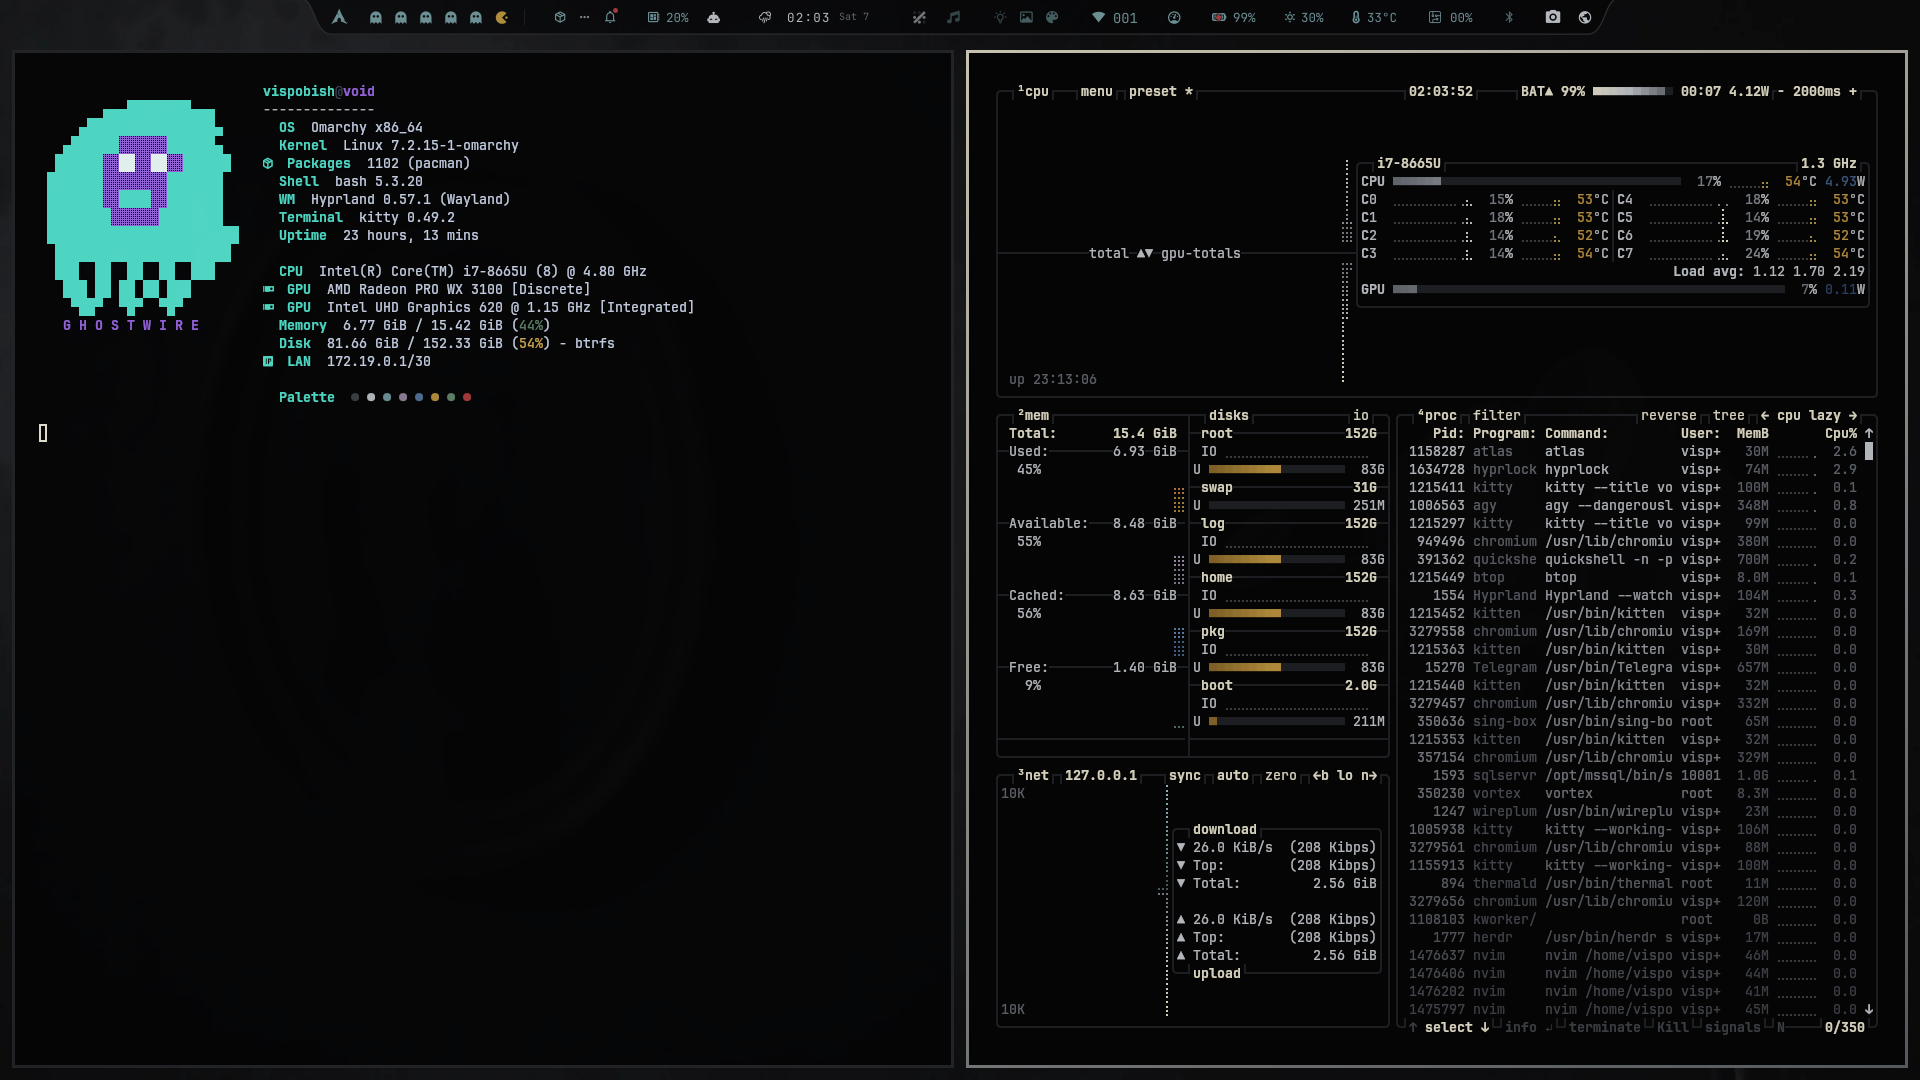
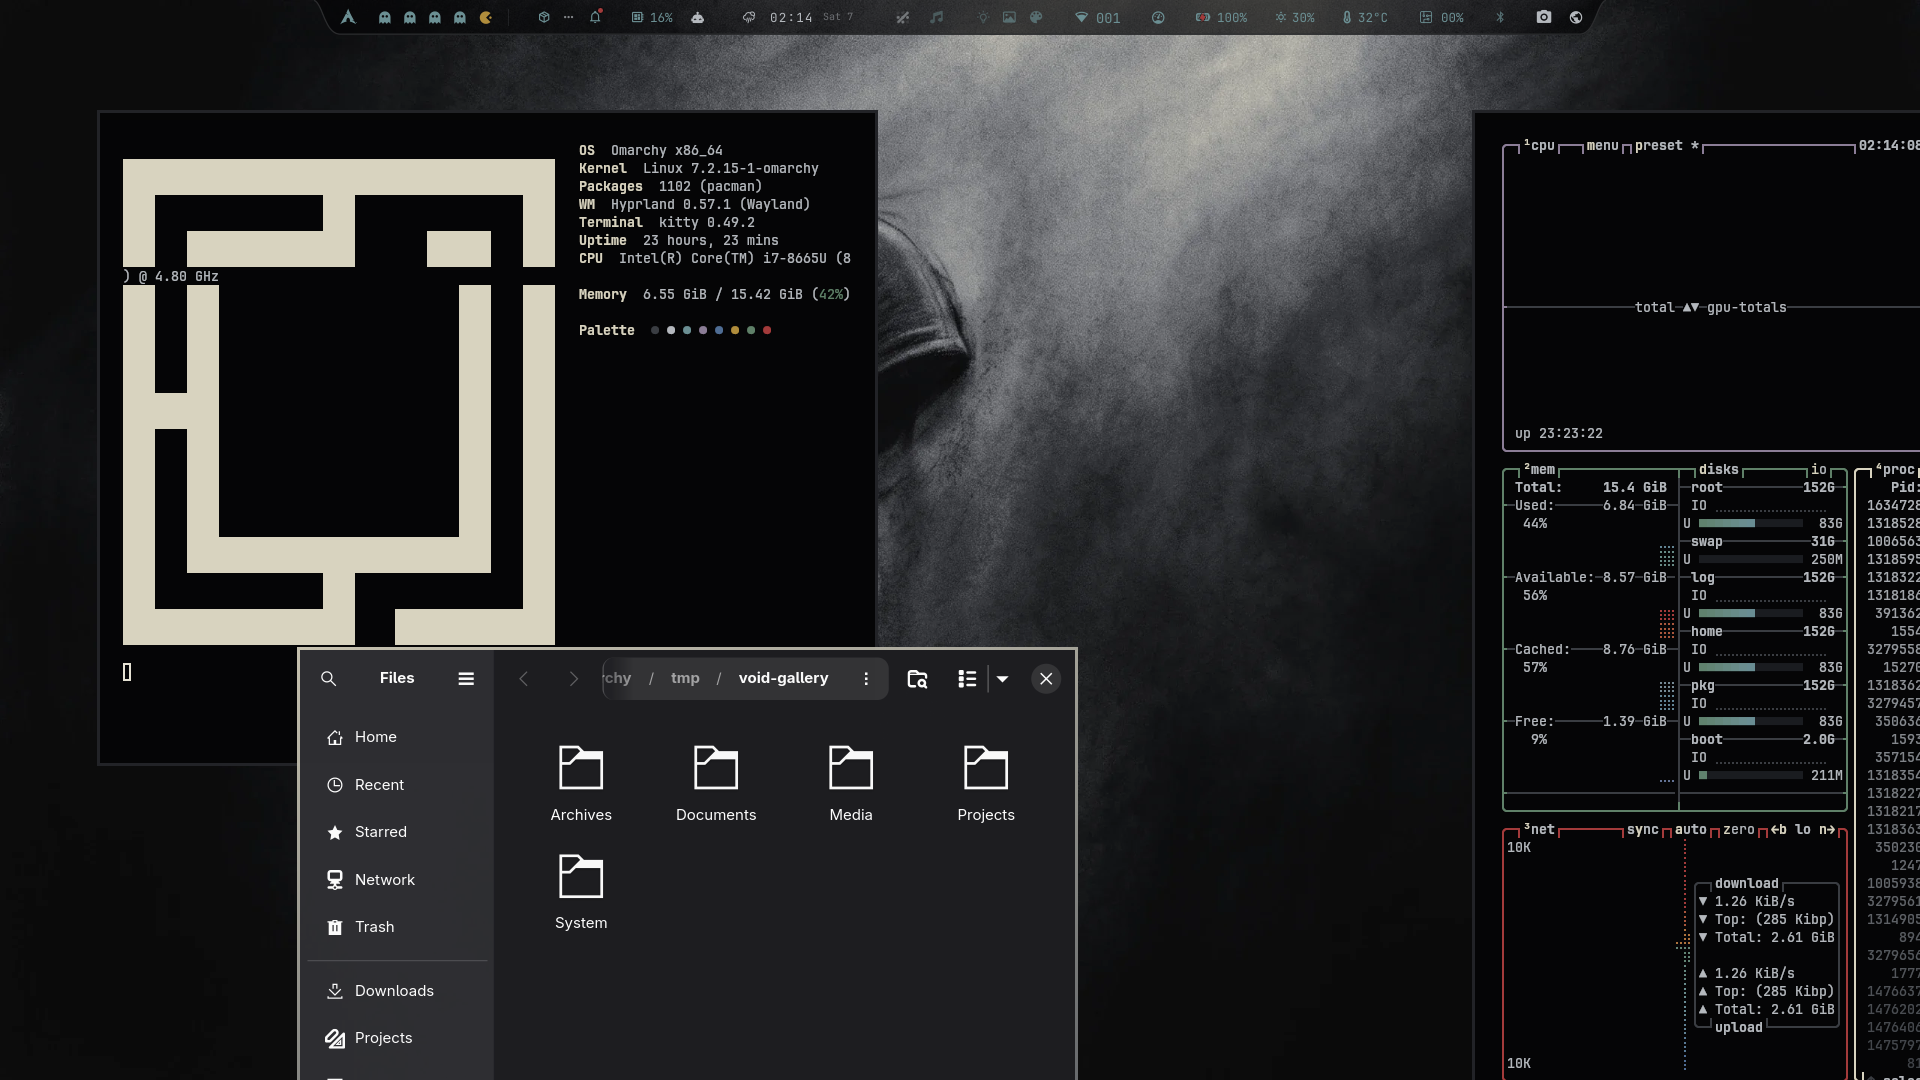
Refactor to official Omarchy theme standard with gallery previews

diff --git a/gtk.css b/gtk.css
@@ -1,0 +1,69 @@
+/* Void — coordinated ultra-dark monochrome surfaces and pale cream accents for GTK 3 / GTK 4 */
+@define-color window_bg_color #050506;
+@define-color window_fg_color #b4b8bd;
+@define-color view_bg_color #050506;
+@define-color view_fg_color #b4b8bd;
+@define-color headerbar_bg_color #0d0e10;
+@define-color headerbar_fg_color #b4b8bd;
+@define-color headerbar_backdrop_color #0d0e10;
+@define-color headerbar_border_color #1c1e22;
+@define-color headerbar_shade_color rgba(0, 0, 0, 0.08);
+@define-color sidebar_bg_color #0d0e10;
+@define-color sidebar_fg_color #b4b8bd;
+@define-color sidebar_backdrop_color #0d0e10;
+@define-color sidebar_border_color #1c1e22;
+@define-color sidebar_shade_color rgba(0, 0, 0, 0.08);
+@define-color secondary_sidebar_bg_color #0d0e10;
+@define-color secondary_sidebar_fg_color #b4b8bd;
+@define-color secondary_sidebar_backdrop_color #0d0e10;
+@define-color secondary_sidebar_border_color #1c1e22;
+@define-color card_bg_color #0d0e10;
+@define-color card_fg_color #b4b8bd;
+@define-color card_shade_color rgba(0, 0, 0, 0.08);
+@define-color popover_bg_color #0d0e10;
+@define-color popover_fg_color #b4b8bd;
+@define-color popover_shade_color rgba(0, 0, 0, 0.12);
+@define-color dialog_bg_color #0d0e10;
+@define-color dialog_fg_color #b4b8bd;
+@define-color thumbnail_bg_color #0d0e10;
+@define-color thumbnail_fg_color #b4b8bd;
+@define-color accent_bg_color #d8d3bf;
+@define-color accent_fg_color #050506;
+@define-color accent_color #d8d3bf;
+@define-color destructive_bg_color #a33b3b;
+@define-color destructive_fg_color #050506;
+@define-color destructive_color #a33b3b;
+@define-color error_bg_color #a33b3b;
+@define-color error_fg_color #050506;
+@define-color error_color #a33b3b;
+@define-color warning_bg_color #b08d3c;
+@define-color warning_fg_color #050506;
+@define-color warning_color #b08d3c;
+@define-color success_bg_color #5f8068;
+@define-color success_fg_color #050506;
+@define-color success_color #5f8068;
+@define-color borders #1c1e22;
+@define-color unfocused_borders #1c1e22;
+@define-color shade_color rgba(0, 0, 0, 0.08);
+@define-color theme_bg_color #050506;
+@define-color theme_fg_color #b4b8bd;
+@define-color theme_base_color #050506;
+@define-color theme_text_color #b4b8bd;
+@define-color theme_selected_bg_color #d8d3bf;
+@define-color theme_selected_fg_color #050506;
+@define-color insensitive_bg_color #0d0e10;
+@define-color insensitive_fg_color #5b5f66;
+@define-color insensitive_base_color #0d0e10;
+@define-color theme_unfocused_bg_color #050506;
+@define-color theme_unfocused_fg_color #5b5f66;
+@define-color theme_unfocused_base_color #050506;
+@define-color theme_unfocused_text_color #5b5f66;
+@define-color theme_unfocused_selected_bg_color #1a1c20;
+@define-color theme_unfocused_selected_fg_color #d8d3bf;
+@define-color link_color #d8d3bf;
+@define-color visited_link_color #8b7d96;
+
+selection { background-color: #1a1c20; color: #d8d3bf; }
+button.suggested-action { background-color: #d8d3bf; color: #050506; }
+button.suggested-action:hover { background-color: #e6e2d3; color: #050506; }
+button.destructive-action { background-color: #a33b3b; color: #050506; }
